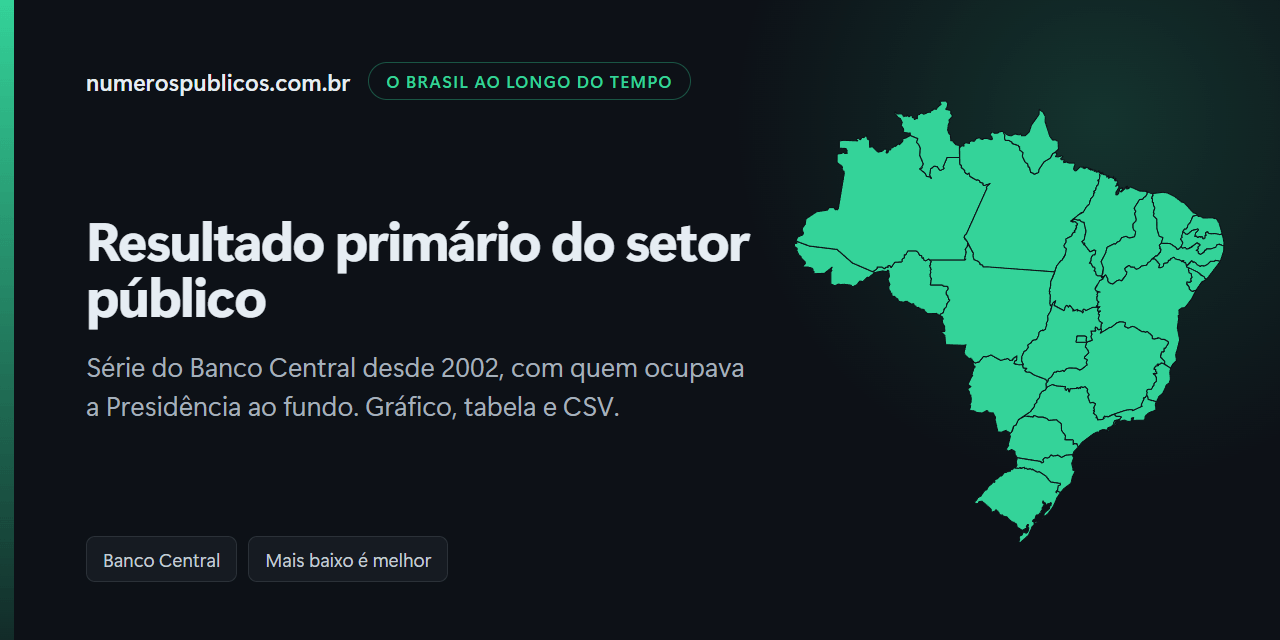
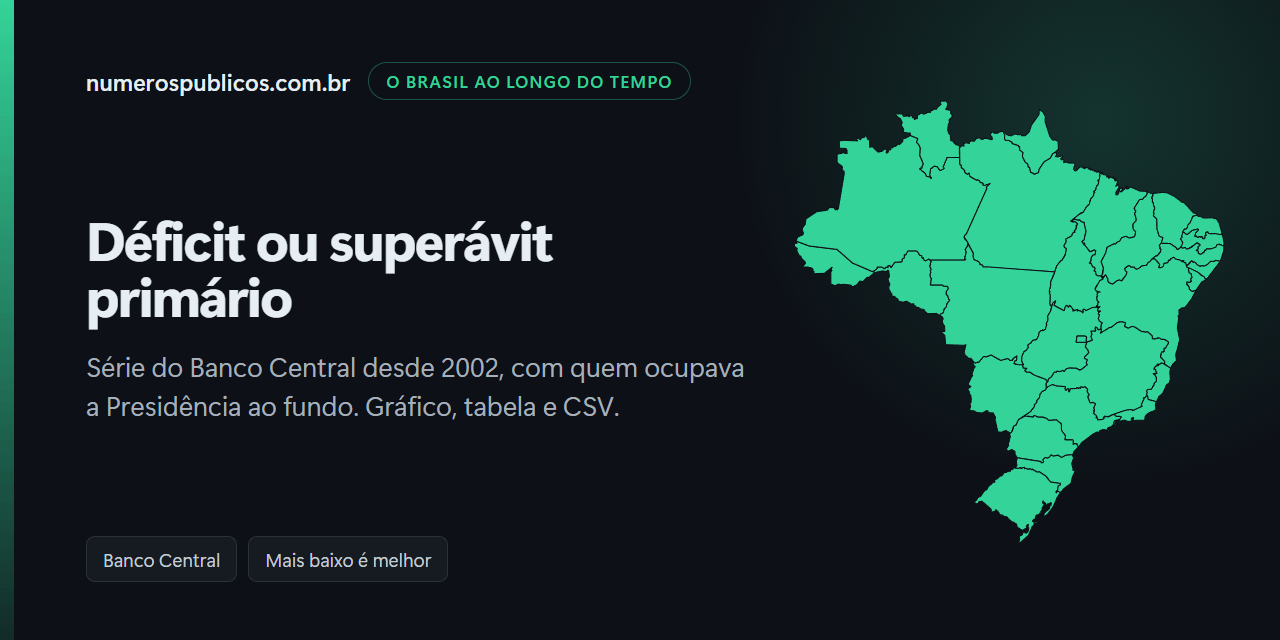
Auditoria, achados de alta: período na frase, posição sem "0% deles", empregos com carteira
- A5: a frase do bimestre e dos 12 meses diz o período e o relatório
  (fraseBimestre e fraseDozeMeses em lib/fiscal/serie.ts), município e estado.
- A8: rotuloAbaixo em lib/posicao.ts dá a contagem quando o percentual
  arredondaria para 0% ou 100% ("mais que 2 deles"), na frase e no aria-label.
- A11: "vagas" do Caged virou "empregos (com carteira)", cartões refeitos.
- Revisão: ano parcial negativo das emendas com ramo próprio, saldo do
  glossário, "como" na base da saúde e na RCL, INSS "a quem fez o pedido".

npm test 334/334, tsc ok, build local e conferidor sem achados.

Changed region(s): [[0.0625, 0.3438, 0.5938, 0.5]]

diff --git a/painel/app/municipio/[slug]/contexto.ts b/painel/app/municipio/[slug]/contexto.ts
@@ -3,7 +3,7 @@ import { atualizadoEm } from "../../../lib/sitemap";
 import { daMesmaRegiao, deEstado, vizinhosDe } from "../../../lib/estado";
 import { MINIMO_MEDIANA, medianasSaudeCache, rankingCache } from "../../../lib/nacional";
 import { posicaoEntre, posicaoNoEstado } from "../../../lib/posicao";
-import { compararFuncoes, DESLOCAMENTO_MINIMO, funcoesRecentesDe, INSTALADO_EM, interrupcoes, rclDesmentida, receitaDe, receitaRecenteDe, saltoSobreAHistoria, nomeQuadrimestre, saudeDe, serieDePessoal, variacao, atualDeFuncoes, serieFuncoesDe } from "../../../lib/fiscal";
+import { compararFuncoes, DESLOCAMENTO_MINIMO, funcoesRecentesDe, INSTALADO_EM, interrupcoes, rclDesmentida, receitaDe, receitaRecenteDe, saltoSobreAHistoria, nomeQuadrimestre, fraseBimestre, fraseDozeMeses, saudeDe, serieDePessoal, variacao, atualDeFuncoes, serieFuncoesDe } from "../../../lib/fiscal";
 import { medianaGeral, trajetoriaDe } from "../../../lib/ideb";
 import { linhasDaUf, medianasCache, medidasDe, taxasCache } from "../../../lib/censo";
 import { cagedAnosDe, cagedDe } from "../../../lib/caged";
@@ -177,6 +177,7 @@ export function montarContexto(dados: Dados, m: Municipio) {
   const periodoRgf = f?.simplificado
     ? `2º semestre de ${fiscal.exercicio}`
     : quadrimestre;
+  const aberturaRgf = fraseDozeMeses(fiscal.exercicio, fiscal.periodo, f?.simplificado === true);
   // `serieDePessoal`, e não a série crua: o ponto que o cartão condena pela
   // RCL desmentida não pode sustentar a variação nem o traço do gráfico.
   const { todos: serie, usaveis, condenado } =
@@ -245,6 +246,9 @@ export function montarContexto(dados: Dados, m: Municipio) {
   const bimestre = fiscal.funcoes && funcoes
     ? `${fiscal.funcoes.periodo}º bimestre de ${funcoes.exercicio}`
     : "";
+  const aberturaBimestre = fiscal.funcoes && funcoes
+    ? fraseBimestre(funcoes.exercicio, fiscal.funcoes.periodo)
+    : "";
   // O exercício mais novo da COLETA, só para saber se este município está
   // atrasado em relação a ela — e, estando, dizer isso em vez de calar.
   const exercicioColetado = fiscal.funcoes
@@ -283,7 +287,7 @@ export function montarContexto(dados: Dados, m: Municipio) {
     .slice(0, 5);
 
   return {
-    snapshot, fiscal, ideb, caged, cagedAnos, emendas, m, atualizado, uf, regiao, pelaRegiao, vizinhos, medidas, medianas, serieFuncoes, taxasPais, medidasTrabalho, medianasTrabalho, taxasTrabalho, renda, medianaRenda, salario, medianaSalario, comUf, medianasUf, medianasTrabalhoUf, medianaRendaUf, medianaSalarioUf, legendaMedianas, anoEmpresas, temCensoTrabalho, temEmpresas, cagedM, cagedAnosM, emendasM, pop, estimada, pibReais, perCapita, emendasPh, posEmendas, posPop, posPerCapita, naoEntregaramNoEstado, consultadosNoEstado, f, instaladoEm, receitaContraRcl, saltoRcl, posicao, quadrimestre, periodoRgf, serie, usaveis, condenado, delta, finalCondenado, vazios, semestral, umPeriodo, saude, funcoes, receita, bimestre, exercicioColetado, atrasado, maior, iniciais, finais, medianaIniciais, medianaFinais, educacao, nacional, comparacao, mudancas,
+    snapshot, fiscal, ideb, caged, cagedAnos, emendas, m, atualizado, uf, regiao, pelaRegiao, vizinhos, medidas, medianas, serieFuncoes, taxasPais, medidasTrabalho, medianasTrabalho, taxasTrabalho, renda, medianaRenda, salario, medianaSalario, comUf, medianasUf, medianasTrabalhoUf, medianaRendaUf, medianaSalarioUf, legendaMedianas, anoEmpresas, temCensoTrabalho, temEmpresas, cagedM, cagedAnosM, emendasM, pop, estimada, pibReais, perCapita, emendasPh, posEmendas, posPop, posPerCapita, naoEntregaramNoEstado, consultadosNoEstado, f, instaladoEm, receitaContraRcl, saltoRcl, posicao, quadrimestre, periodoRgf, aberturaRgf, serie, usaveis, condenado, delta, finalCondenado, vazios, semestral, umPeriodo, saude, funcoes, receita, bimestre, aberturaBimestre, exercicioColetado, atrasado, maior, iniciais, finais, medianaIniciais, medianaFinais, educacao, nacional, comparacao, mudancas,
   };
 }
 

diff --git a/painel/app/ranking/emprego-com-carteira/page.tsx b/painel/app/ranking/emprego-com-carteira/page.tsx
@@ -28,8 +28,8 @@ const PONTA = 50;
  * Responde a uma consulta comum ("cidades que mais geraram empregos") com o
  * dado que já está nas 5.571 páginas e que o `caged-exportar` só grava depois
  * de bater com o sumário do Ministério do Trabalho. É fato puro: quem abriu e
- * quem fechou vagas, sem cor de bom ou ruim, e com a conta por habitante ao
- * lado, porque em número de vagas a cidade grande sempre aparece.
+ * quem fechou empregos, sem cor de bom ou ruim, e com a conta por habitante ao
+ * lado, porque em número de empregos a cidade grande sempre aparece.
  */
 export async function generateMetadata(): Promise<Metadata> {
   const caged = await lerCaged();
@@ -37,7 +37,7 @@ export async function generateMetadata(): Promise<Metadata> {
   const descricao =
     `Saldo de empregos com carteira de ${competenciaCurta(caged.competencias[0]!)} ` +
     `a ${competenciaCurta(caged.competencia)} em cada município: quem mais abriu ` +
-    `e quem mais fechou vagas, pelo Novo Caged.`;
+    `e quem mais fechou empregos, pelo Novo Caged.`;
   return {
     title: titulo,
     description: descricao,
@@ -200,7 +200,7 @@ export default async function Pagina() {
         Municípios que mais geraram empregos com carteira
       </h1>
       <p className={estilos.chamada}>
-        Quantas vagas com carteira assinada cada município abriu ou fechou de{" "}
+        Quantos empregos com carteira assinada cada município abriu ou fechou de{" "}
         {de} a {ate}: as admissões menos os desligamentos, o{" "}
         <Termo chave="saldo">saldo</Termo>, pelo{" "}
         <Termo chave="caged">Novo Caged</Termo> do Ministério do Trabalho.
@@ -230,7 +230,7 @@ export default async function Pagina() {
         <p>
           No país, os 12 meses somam <strong>{br(doze.admissoes)}</strong>{" "}
           admissões e <strong>{br(doze.desligamentos)}</strong> desligamentos:
-          saldo de <strong>{comSinal(doze.saldo)}</strong> vagas, o número que o
+          saldo de <strong>{comSinal(doze.saldo)}</strong> empregos com carteira, o número que o
           Ministério do Trabalho publica e que esta base reproduz exatamente. Dos{" "}
           <strong>{br(r.ordem.length)}</strong> municípios,{" "}
           <strong>{br(r.positivos)}</strong> terminaram a janela com mais
@@ -267,7 +267,7 @@ export default async function Pagina() {
       <section className={estilos.texto}>
         <h2>Por mil habitantes, nas cidades de {br(POPULACAO_MINIMA_POR_MIL)} habitantes ou mais</h2>
         <p>
-          Em número de vagas, cidades de tamanhos diferentes não se comparam.
+          Em número de empregos, cidades de tamanhos diferentes não se comparam.
           Aqui o saldo é dividido pela população estimada pelo IBGE
           {anoPopulacao ? ` para ${anoPopulacao}` : ""}, nas{" "}
           <strong>{br(r.porMil.length)}</strong> cidades com{" "}

diff --git a/painel/app/municipio/[slug]/secao-trabalho.tsx b/painel/app/municipio/[slug]/secao-trabalho.tsx
@@ -113,12 +113,12 @@ export default function SecaoTrabalho({ c }: { c: Contexto }) {
               {contagem(cagedM.desligamentos, "desligamento", "desligamentos")}
             </strong>
             : <Termo chave="saldo">saldo</Termo> de <strong>{comSinal(cagedM.saldo)}</strong>{" "}
-            {Math.abs(cagedM.saldo) === 1 ? "vaga" : "vagas"}. Só em{" "}
+            {Math.abs(cagedM.saldo) === 1 ? "emprego com carteira" : "empregos com carteira"}. Só em{" "}
             {nomeCompetencia(caged.competencia)}, o saldo foi de{" "}
             <strong>{comSinal(cagedM.ultimo.saldo)}</strong>{" "}
-            {Math.abs(cagedM.ultimo.saldo) === 1 ? "vaga" : "vagas"}.{" "}
+            {Math.abs(cagedM.ultimo.saldo) === 1 ? "emprego com carteira" : "empregos com carteira"}.{" "}
             <Link href="/ranking/emprego-com-carteira/" prefetch={false}>
-              Os municípios que mais abriram e mais fecharam vagas
+              Os municípios que mais abriram e mais fecharam empregos com carteira
             </Link>.
           </p>
           <TabelaCaged
@@ -135,7 +135,7 @@ export default function SecaoTrabalho({ c }: { c: Contexto }) {
             Zero admissões e zero desligamentos num mês querem dizer que
             nenhuma movimentação foi declarada, e não que falta o dado. No
             país, os mesmos 12 meses somam{" "}
-            <strong>{comSinal(caged.conferencia.doze.saldo)}</strong> vagas,
+            <strong>{comSinal(caged.conferencia.doze.saldo)}</strong> empregos com carteira,
             o número que o Ministério do Trabalho publica e que esta base
             reproduz exatamente.{" "}
             {/* Do dado conferido, e não do teclado: `caged-exportar` só
@@ -173,7 +173,7 @@ export default function SecaoTrabalho({ c }: { c: Contexto }) {
               <thead>
                 <tr>
                   <th scope="col">Ano</th>
-                  <th scope="col" className={estilos.num}>Saldo (vagas)</th>
+                  <th scope="col" className={estilos.num}>Saldo (empregos)</th>
                 </tr>
               </thead>
               <tbody>
@@ -192,7 +192,7 @@ export default function SecaoTrabalho({ c }: { c: Contexto }) {
             dezembro fechado, a série inteira é refeita. No país, os mesmos
             anos vão de{" "}
             <strong>{comSinal(cagedAnos.conferencia[String(cagedAnos.anos[0])]!.saldo)}</strong>{" "}
-            vagas em {cagedAnos.anos[0]} a{" "}
+            empregos em {cagedAnos.anos[0]} a{" "}
             <strong>
               {comSinal(cagedAnos.conferencia[String(cagedAnos.anos[cagedAnos.anos.length - 1])]!.saldo)}
             </strong>{" "}

diff --git a/painel/lib/glossario.ts b/painel/lib/glossario.ts
@@ -122,7 +122,7 @@ export const GLOSSARIO = {
   },
   "minimo-saude": {
     termo: "Mínimo constitucional em saúde",
-    curta: "A Constituição obriga o município a aplicar em saúde ao menos 15% da receita de impostos (Emenda Constitucional 29, de 2000, com a regra inteira desde 2004).",
+    curta: "A Constituição obriga o município a aplicar em saúde ao menos 15% da receita de impostos e transferências constitucionais, a base que a Lei Complementar 141/2012 define (Emenda Constitucional 29, de 2000, com a regra inteira desde 2004).",
     secao: "saude",
   },
   "nao-instalado": {
@@ -161,7 +161,7 @@ export const GLOSSARIO = {
   },
   rcl: {
     termo: "Receita corrente líquida (RCL) ajustada",
-    curta: "A arrecadação do município menos as transferências que ele é obrigado a repassar, com os ajustes que a Lei de Responsabilidade Fiscal manda fazer. É o denominador do percentual de gasto com pessoal.",
+    curta: "Toda a receita corrente do município (como os impostos dele e as transferências que recebe da União e do estado) menos as deduções da Lei de Responsabilidade Fiscal, como a contribuição dos servidores à previdência própria, e com os ajustes que ela manda fazer. No governo estadual, deduz-se também a parte dos impostos que vai aos municípios. É o denominador do percentual de gasto com pessoal.",
     secao: "pessoal",
   },
   "rede-municipal": {
@@ -171,7 +171,7 @@ export const GLOSSARIO = {
   },
   "resultado-primario": {
     termo: "Resultado primário",
-    curta: "O que o governo arrecada menos o que gasta, sem contar os juros da dívida. Sobra é superávit; falta, déficit.",
+    curta: "O que o setor público arrecada menos o que gasta, sem contar os juros da dívida. No site vem como o Banco Central publica (necessidade de financiamento, somada em 12 meses): acima de zero é déficit; abaixo, superávit.",
     secao: "brasil",
   },
   rgf: {
@@ -191,7 +191,7 @@ export const GLOSSARIO = {
   },
   saldo: {
     termo: "Saldo de empregos",
-    curta: "Admissões menos desligamentos no período. Positivo, abriram-se mais vagas com carteira do que se fecharam.",
+    curta: "Admissões menos desligamentos com carteira no período. Positivo: houve mais contratações que desligamentos.",
     secao: "caged",
   },
   "sem-relatorio": {

diff --git a/painel/app/estado/[uf]/contexto.ts b/painel/app/estado/[uf]/contexto.ts
@@ -4,7 +4,7 @@ import { milReaisParaReais, periodoDe } from "../../../lib/dados";
 import { emendasDeVarios, porHabitante, porHabitanteDaUf } from "../../../lib/emendas";
 import { slugUf, deEstado } from "../../../lib/estado";
 import { governoDe } from "../../../lib/estados-fiscal";
-import { nomeQuadrimestre, atualDeFuncoes } from "../../../lib/fiscal";
+import { nomeQuadrimestre, fraseBimestre, atualDeFuncoes } from "../../../lib/fiscal";
 import { medianaUltimaEdicao } from "../../../lib/ideb";
 import { inssDaUf } from "../../../lib/inss";
 import { FONTES, VARIAVEIS, catalogoDe, coberturaTemporal, palavrasChave, LICENCA_DADOS } from "../../../lib/jsonld";
@@ -135,6 +135,10 @@ export function montarContexto(dados: Dados, r: ResumoEstado) {
   const bimestre = fiscal.funcoes
     ? `${fiscal.funcoes.periodo}º bimestre de ${atualDeFuncoes(fiscal.funcoes)?.exercicio ?? "?"}`
     : "";
+  const exercicioFuncoes = fiscal.funcoes ? atualDeFuncoes(fiscal.funcoes)?.exercicio : undefined;
+  const aberturaBimestre = fiscal.funcoes && exercicioFuncoes !== undefined
+    ? fraseBimestre(exercicioFuncoes, fiscal.funcoes.periodo)
+    : `No ${bimestre}`;
 
   const jsonLd = {
     "@context": "https://schema.org",
@@ -178,7 +182,7 @@ export function montarContexto(dados: Dados, r: ResumoEstado) {
   };
 
   return {
-    anoEstimada, atualizado, ausentes, ba, bimestre, brasilMediana, brasilTaxa, caged, cagedUf, contraste, de, emendas, emendasPh, emendasUf, esperaUf, estadosFiscal, fiscal, governo, inss, inssUf, jsonLd, ma, medIdeb, medianaPh, medianas, medidasCenso, meu, panorama, phMunicipios, pibReais, pop, posMediana, posTaxa, quadrimestre, r, rs, sc, semMunicipio, semRede, semRedeFinais, snapshot, taxasPais,
+    anoEstimada, atualizado, ausentes, aberturaBimestre, ba, bimestre, brasilMediana, brasilTaxa, caged, cagedUf, contraste, de, emendas, emendasPh, emendasUf, esperaUf, estadosFiscal, fiscal, governo, inss, inssUf, jsonLd, ma, medIdeb, medianaPh, medianas, medidasCenso, meu, panorama, phMunicipios, pibReais, pop, posMediana, posTaxa, quadrimestre, r, rs, sc, semMunicipio, semRede, semRedeFinais, snapshot, taxasPais,
   };
 }
 

diff --git a/painel/lib/brasil.ts b/painel/lib/brasil.ts
@@ -94,6 +94,11 @@ export interface Apresentacao {
   /** Onde o zero divide a leitura (crescer e encolher, déficit e
    *  superávit): o nome de cada lado, escrito no próprio gráfico. */
   zero?: { acima: string; abaixo: string };
+  /** O período que cada ponto soma, quando não é o do rótulo ("nos 12
+   *  meses até"): o cartão de `/brasil/` escreve o lado do zero com ele,
+   *  "Déficit nos 12 meses até ago. 2026" (auditoria de termos, 26/10/2026:
+   *  "resultado primário de 0,62%" se lia como superávit). */
+  acumulado?: string;
   nota?: string;
 }
 
@@ -122,7 +127,8 @@ export const APRESENTACAO: Record<string, Apresentacao> = {
     titulo: "Taxa de desemprego",
     fiscal: false,
     como:
-      "De cada 100 pessoas que procuram trabalho, quantas não encontram.",
+      "De cada 100 pessoas de 14 anos ou mais que trabalham ou procuram " +
+      "trabalho, quantas estão sem trabalho e procurando.",
     melhor: "baixo",
     nota:
       "O IBGE chama de taxa de desocupação. A PNAD Contínua começa em 2012; " +
@@ -186,14 +192,16 @@ export const APRESENTACAO: Record<string, Apresentacao> = {
       "IBGE revisa o PIB, a série inteira muda.",
   },
   "nfsp-primario": {
-    titulo: "Resultado primário do setor público",
+    titulo: "Déficit ou superávit primário",
     fiscal: true,
     como:
+      "Cada ponto soma os 12 meses terminados ali, em proporção do PIB. " +
       "Acima de zero, o setor público gastou mais do que arrecadou (déficit); " +
       "abaixo de zero, arrecadou mais do que gastou (superávit). Sem contar " +
       "os juros da dívida.",
     melhor: "baixo",
     zero: { acima: "déficit", abaixo: "superávit" },
+    acumulado: "nos 12 meses até",
     nota:
       "O Banco Central publica a necessidade de financiamento do setor " +
       "público, e por isso o déficit fica acima de zero.",

diff --git a/painel/app/inss/[grupo]/page.tsx b/painel/app/inss/[grupo]/page.tsx
@@ -231,7 +231,7 @@ export default async function Pagina({ params }: Params) {
                 </strong>{" "}
               </>
             )}
-            Quando o INSS pede documentos ao segurado, a contagem fica suspensa,
+            Quando o INSS pede documentos a quem fez o pedido, a contagem fica suspensa,
             e os dados abertos não dizem quais pedidos estão nessa situação.
           </p>
         ) : (
@@ -249,10 +249,21 @@ export default async function Pagina({ params }: Params) {
         {g.prazoAcordo !== null && (
           <p className={estilos.ressalva}>
             O acordo (Recurso Extraordinário 1.171.152, Tema 1066) tinha
-            vigência de dois anos, e não encontramos renovação. O que está em
-            lei é o prazo do primeiro pagamento: até 45 dias depois de o
-            segurado entregar toda a documentação (Lei 8.213/1991, art. 41-A,
-            §5º).
+            vigência de dois anos, e não encontramos renovação.{" "}
+            {g.chave.startsWith("bpc-") ? (
+              <>
+                O BPC é assistencial (Lei 8.742/1993), não da Previdência:
+                quem pede não precisa ter contribuído ao INSS. O prazo de 45
+                dias para o primeiro pagamento da Lei 8.213/1991 (art. 41-A,
+                §5º) é dos benefícios da Previdência, não dele.
+              </>
+            ) : (
+              <>
+                O que está em lei é o prazo do primeiro pagamento: até 45 dias
+                depois de o segurado entregar toda a documentação (Lei
+                8.213/1991, art. 41-A, §5º).
+              </>
+            )}
           </p>
         )}
       </section>

diff --git a/painel/lib/fiscal/serie.ts b/painel/lib/fiscal/serie.ts
@@ -66,6 +66,26 @@ export function nomeQuadrimestre(exercicio: number, periodo: number): string {
   return `${periodo}º quadrimestre de ${exercicio}`;
 }
 
+/** O mês em que cada bimestre termina. */
+const FIM_DO_BIMESTRE = ["fevereiro", "abril", "junho", "agosto", "outubro", "dezembro"];
+
+/** Abertura da frase do RREO, que acumula o ano desde janeiro: "No 6º
+ *  bimestre de 2025" se lia como "em novembro e dezembro" (auditoria de
+ *  termos, A5, 26/10/2026). */
+export function fraseBimestre(exercicio: number, periodo: number): string {
+  return periodo === 6
+    ? `Em ${exercicio} (o ano inteiro, no relatório do 6º bimestre)`
+    : `De janeiro a ${FIM_DO_BIMESTRE[periodo - 1]} de ${exercicio} (relatório do ${periodo}º bimestre)`;
+}
+
+/** Abertura da frase do RGF, cujo percentual cobre os 12 meses até o fim do
+ *  quadrimestre; o Simplificado do 2º semestre, os 12 meses até dezembro. */
+export function fraseDozeMeses(exercicio: number, periodo: number, simplificado = false): string {
+  const fim = simplificado ? "dezembro" : FIM_DO_BIMESTRE[2 * periodo - 1];
+  const relatorio = simplificado ? "2º semestre" : `${periodo}º quadrimestre`;
+  return `Nos 12 meses até ${fim} de ${exercicio} (relatório do ${relatorio})`;
+}
+
 /** O rótulo curto de um PONTO da série: o do RGF Simplificado é semestre. */
 export function rotuloPonto(p: PontoSerie): string {
   return p[4] === true ? `2º sem. ${p[0]}` : rotuloPeriodo(p[0], p[1]);

diff --git a/painel/app/estado/[uf]/secao-emprego.tsx b/painel/app/estado/[uf]/secao-emprego.tsx
@@ -29,10 +29,10 @@ export default function SecaoEmprego({ c }: { c: Contexto }) {
         </strong>
         : <Termo chave="saldo">saldo</Termo> de{" "}
         <strong>{comSinal(cagedUf.saldo)}</strong>{" "}
-        {Math.abs(cagedUf.saldo) === 1 ? "vaga" : "vagas"}. Só em{" "}
+        {Math.abs(cagedUf.saldo) === 1 ? "emprego com carteira" : "empregos com carteira"}. Só em{" "}
         {nomeCompetencia(caged.competencia)}, o saldo foi de{" "}
         <strong>{comSinal(cagedUf.ultimo.saldo)}</strong>{" "}
-        {Math.abs(cagedUf.ultimo.saldo) === 1 ? "vaga" : "vagas"}.
+        {Math.abs(cagedUf.ultimo.saldo) === 1 ? "emprego com carteira" : "empregos com carteira"}.
         {cagedUf.comDado > 1 && (
           <>
             {" "}
@@ -64,7 +64,7 @@ export default function SecaoEmprego({ c }: { c: Contexto }) {
         município nenhum entram só no total do país, e por isso o número
         que ele publica para o estado pode diferir um pouco. No país, os
         mesmos 12 meses somam{" "}
-        <strong>{comSinal(caged.conferencia.doze.saldo)}</strong> vagas.{" "}
+        <strong>{comSinal(caged.conferencia.doze.saldo)}</strong> empregos com carteira.{" "}
         <a href={caged.conferencia.sumario}>Sumário executivo do MTE</a>.
       </p>
     </section>

diff --git a/painel/app/municipio/[slug]/secao-isso-e-muito.tsx b/painel/app/municipio/[slug]/secao-isso-e-muito.tsx
@@ -1,5 +1,6 @@
 import Link from "next/link";
 import { br } from "../../../lib/dados";
+import { rotuloAbaixo } from "../../../lib/posicao";
 import { deEstado } from "../../../lib/estado";
 import DistribuicaoSvg from "../../componentes/distribuicao-svg";
 import type { Contexto } from "./contexto";
@@ -24,11 +25,18 @@ export default function SecaoIssoEMuito({ c }: { c: Contexto }) {
       <p>
         Entre os <strong>{br(posicao.base)}</strong> municípios{" "}
         {deEstado(m.uf)} que entregaram o relatório com valor
-        plausível, {m.nome} está{" "}
-        <strong>
-          acima de {br(posicao.percentil, 0)}%
-        </strong>{" "}
-        deles. A mediana do estado é{" "}
+        plausível,{" "}
+        {posicao.percentil === 0 ? (
+          <>{m.nome} tem <strong>o menor percentual</strong> deles.</>
+        ) : posicao.percentil === 100 ? (
+          <>{m.nome} tem <strong>o maior percentual</strong> deles.</>
+        ) : (
+          <>
+            {m.nome} gasta com pessoal, em proporção da receita, mais que{" "}
+            <strong>{rotuloAbaixo(posicao)}</strong> deles.
+          </>
+        )}{" "}
+        A mediana do estado é{" "}
         <strong>{br(posicao.mediana, 2)}%</strong>.
       </p>
 

diff --git a/painel/app/municipio/[slug]/secao-pessoal.tsx b/painel/app/municipio/[slug]/secao-pessoal.tsx
@@ -11,7 +11,7 @@ import type { Contexto } from "./contexto";
  * Extraído de `page.tsx` em 15/10/2026 (item 19 da revisão de 11/10/2026): o HTML é o mesmo, byte a byte.
  */
 export default function SecaoPessoal({ c }: { c: Contexto }) {
-  const { fiscal, m, uf, naoEntregaramNoEstado, consultadosNoEstado, f, instaladoEm, receitaContraRcl, saltoRcl, quadrimestre, periodoRgf , estilos } = c;
+  const { fiscal, m, uf, naoEntregaramNoEstado, consultadosNoEstado, f, instaladoEm, receitaContraRcl, saltoRcl, quadrimestre, periodoRgf, aberturaRgf , estilos } = c;
   return (
     <section className={estilos.texto} id="gasto-com-pessoal">
       <h2>O que o gasto com pessoal significa aqui</h2>
@@ -70,7 +70,7 @@ export default function SecaoPessoal({ c }: { c: Contexto }) {
         </p>
       ) : f?.percentual !== null && f?.percentual !== undefined ? (
         <p>
-          No {periodoRgf}, {m.nome} declarou{" "}
+          {aberturaRgf}, {m.nome} declarou{" "}
           <strong>{br(f.percentual, 2)}%</strong> da sua receita corrente líquida
           ajustada comprometidos com pessoal.
           {f.simplificado && (

diff --git a/painel/app/municipio/[slug]/secao-educacao.tsx b/painel/app/municipio/[slug]/secao-educacao.tsx
@@ -23,7 +23,7 @@ import FonteGrafico from "../../componentes/fonte-grafico";
  * caso específico.
  */
 export default function SecaoEducacao({ c }: { c: Contexto }) {
-  const { snapshot, ideb, m, bimestre, iniciais, finais, medianaIniciais, medianaFinais, educacao , estilos } = c;
+  const { snapshot, ideb, m, aberturaBimestre, iniciais, finais, medianaIniciais, medianaFinais, educacao , estilos } = c;
   if (!iniciais) {
     return (
       <section className={estilos.texto} id="educacao">
@@ -51,9 +51,9 @@ export default function SecaoEducacao({ c }: { c: Contexto }) {
       <p>
         {educacao && educacao.percentual !== null ? (
           <>
-            {m.nome} destinou{" "}
-            <strong>{br(educacao.percentual, 1)}%</strong> do orçamento à
-            educação no {bimestre}. O{" "}
+            {aberturaBimestre}, {m.nome} destinou{" "}
+            <strong>{br(educacao.percentual, 1)}%</strong> do que gastou (despesa liquidada) à
+            educação. O{" "}
             <Termo chave="ideb">
               IDEB
             </Termo>{" "}
